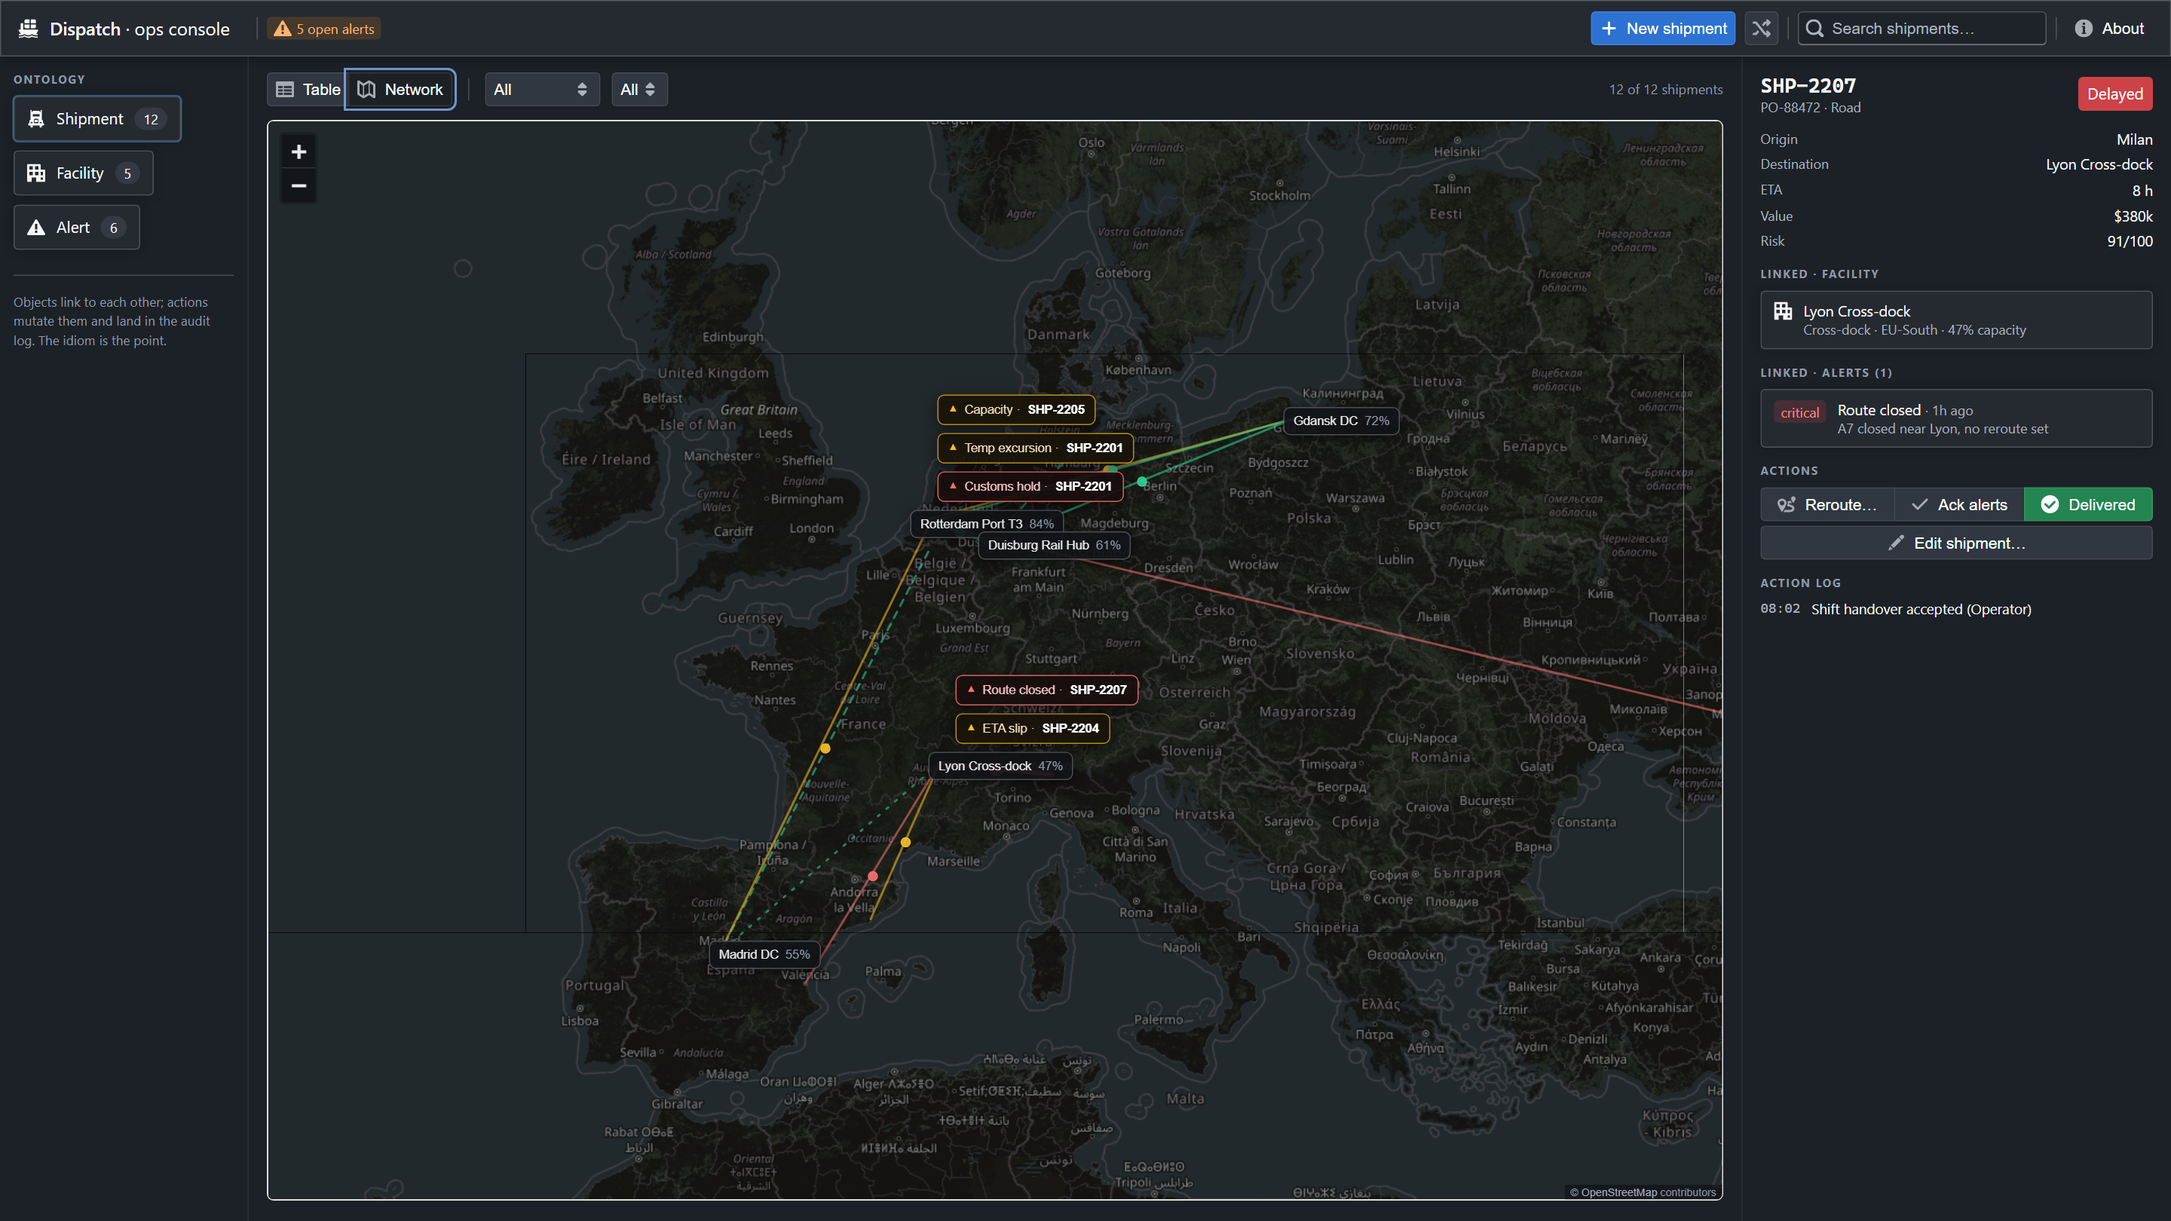
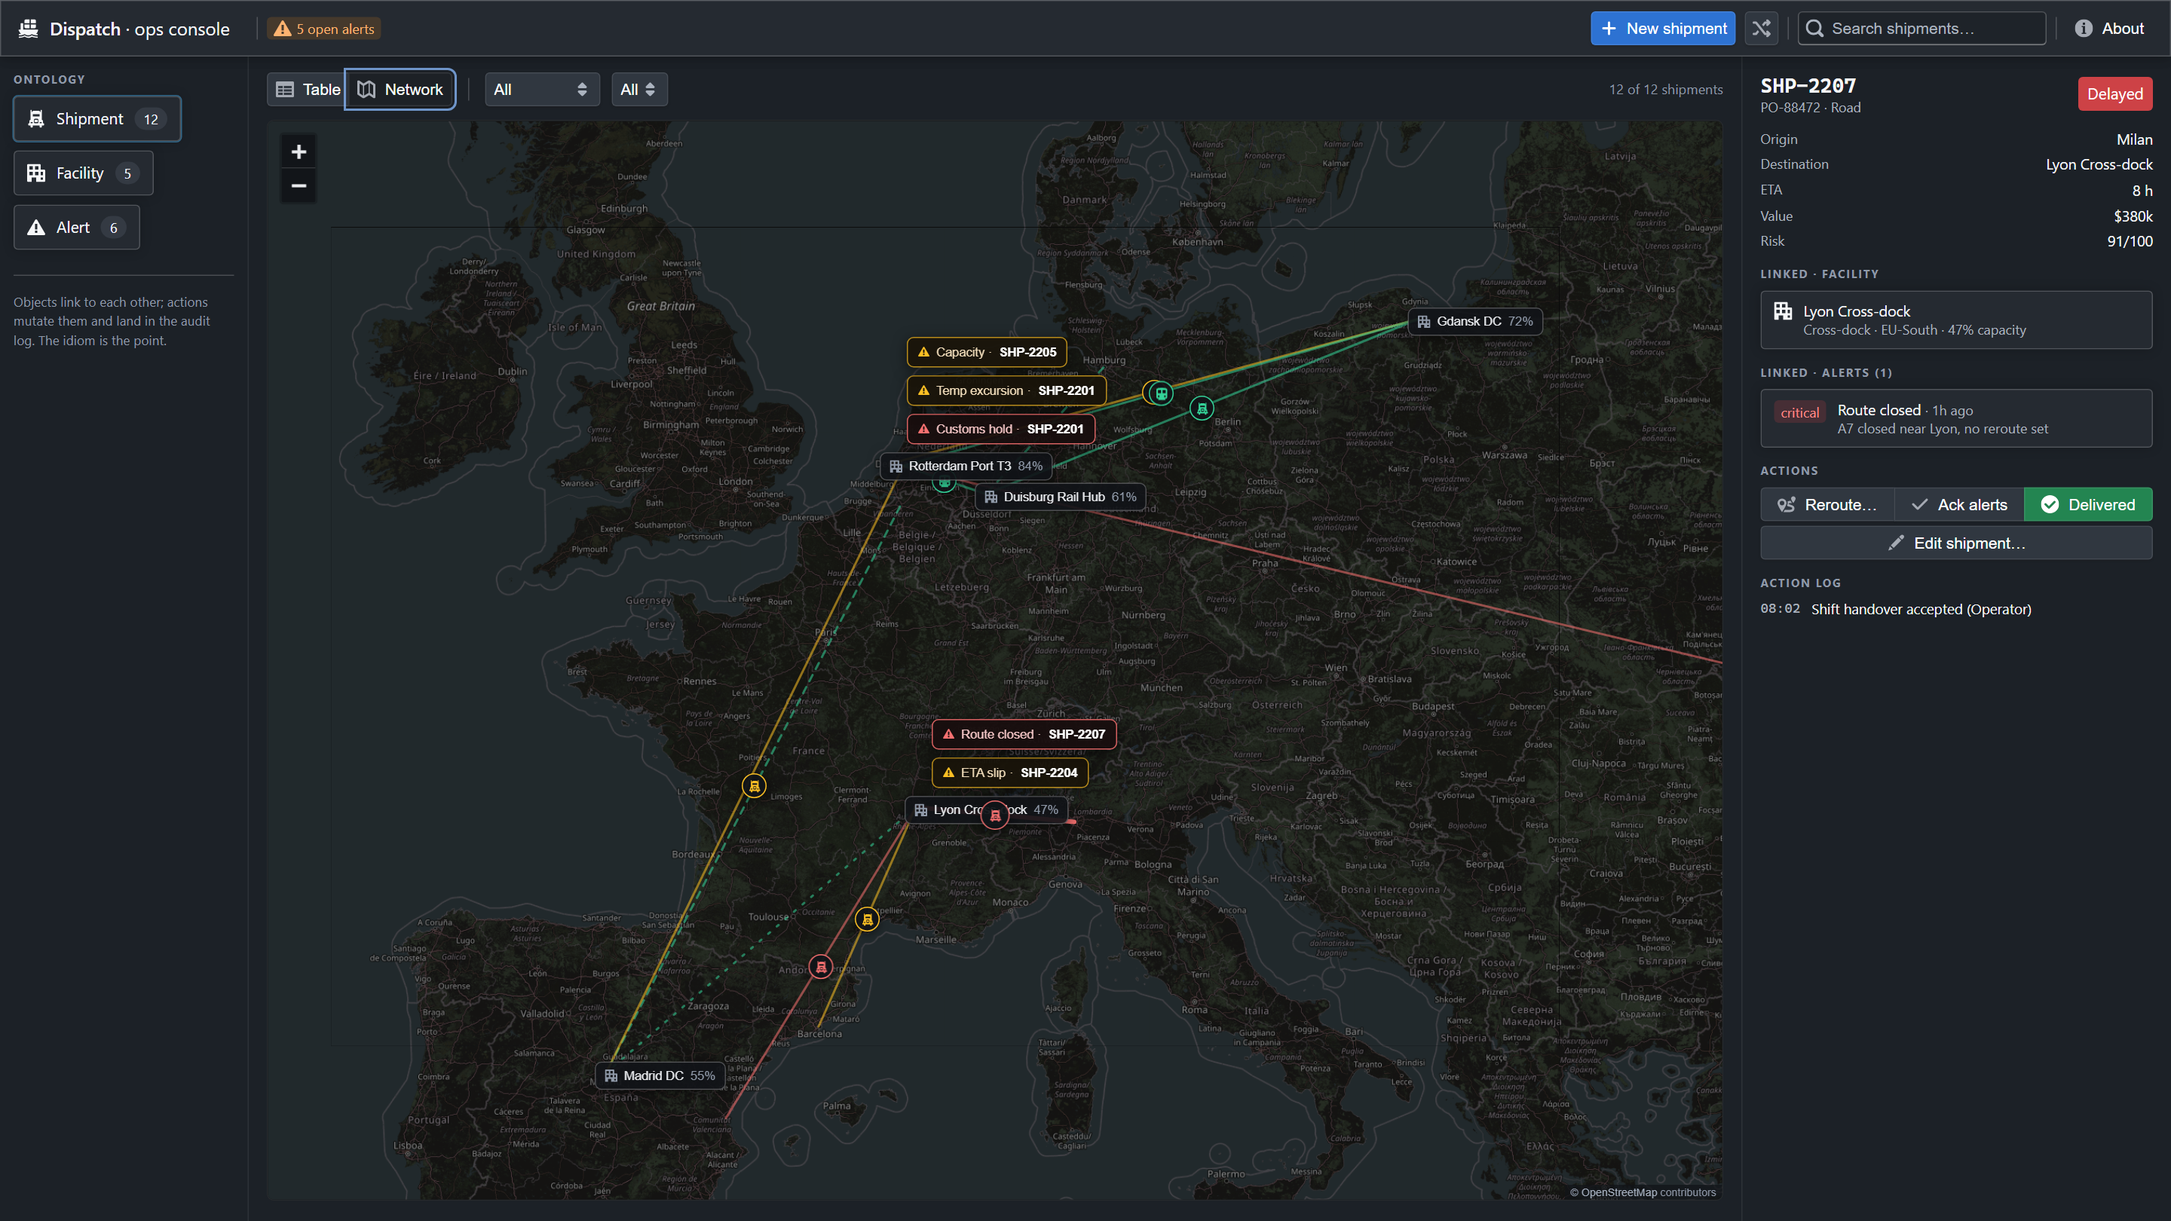
Smooth zoom, computed risk, city dropdown, Blueprint map glyphs
- Zoom no longer flashes light: dark filter moved to the tile pane
  (per-tile filters drop during zoom animation) and the container
  background override now beats leaflet.css; half-level wheel steps.
- Risk score is derived from status/priority/ETA/value/mode instead
  of being typed in; recomputed on every action, 0 once delivered.
- Origin is a dropdown over the known city list so every shipment
  can be drawn on the map (Paderborn and 5 more cities added).
- Map markers use Blueprint icon glyphs: office pins for facilities,
  truck/train/ship chips at route midpoints, warning-sign callouts.

Changed region(s): [[0.1562, 0.0926, 0.8125, 0.9877]]

diff --git a/src/App.jsx b/src/App.jsx
@@ -7,11 +7,12 @@ import {
     Navbar, Alignment, InputGroup, Button, ButtonGroup, Tag, HTMLTable, Card,
     Dialog, DialogBody, DialogFooter, HTMLSelect, ProgressBar, Icon, Tooltip,
     Divider, NonIdealState, OverlayToaster, Position, Intent,
-    FormGroup, NumericInput, Slider,
+    FormGroup, NumericInput,
 } from '@blueprintjs/core';
 import {
     OBJECT_TYPES, FACILITIES, INITIAL_ALERTS, INITIAL_SHIPMENTS,
     STATUS_INTENT, SEVERITY_INTENT,
+computeRisk, ORIGINS,
 } from './data.js';
 import MapView from './MapView.jsx';
 
@@ -25,26 +26,22 @@ async function toast(props) {
 const now = () => new Date().toLocaleTimeString('en-GB', { hour: '2-digit', minute: '2-digit' });
 
 // ---- random shipment generator (for the "Randomize" buttons) ----
-const RND_ORIGINS = ['Shanghai', 'Rotterdam', 'Hamburg', 'Antwerp', 'Valencia', 'Milan', 'Gdansk', 'Barcelona', 'Lyon', 'Duisburg', 'Istanbul', 'Oslo'];
 const RND_MODES = ['Ocean', 'Rail', 'Road'];
 const RND_STATUSES = ['In transit', 'Loading', 'Delayed', 'At customs'];
 const pick = (arr) => arr[Math.floor(Math.random() * arr.length)];
 function randomShipmentFields() {
     const status = pick(RND_STATUSES);
     return {
-        origin: pick(RND_ORIGINS),
+        origin: pick(ORIGINS),
         destId: pick(FACILITIES).id,
         mode: pick(RND_MODES),
         status,
         priority: pick(['P1', 'P2', 'P2', 'P3', 'P3']),
         etaH: 4 + Math.floor(Math.random() * 44),
         valueK: 30 + Math.floor(Math.random() * 420),
-        riskScore: status === 'Delayed' || status === 'At customs'
-            ? 45 + Math.floor(Math.random() * 50)
-            : 5 + Math.floor(Math.random() * 55),
     };
 }
-const EMPTY_FORM = { origin: '', destId: FACILITIES[0].id, mode: 'Road', status: 'Loading', priority: 'P2', etaH: 24, valueK: 100, riskScore: 20 };
+const EMPTY_FORM = { origin: 'Hamburg', destId: FACILITIES[0].id, mode: 'Road', status: 'Loading', priority: 'P2', etaH: 24, valueK: 100 };
 
 export default function App() {
     const [shipments, setShipments] = useState(INITIAL_SHIPMENTS);
@@ -83,7 +80,7 @@ export default function App() {
     // ---- ACTIONS (the Foundry idiom: named, auditable mutations) ----
     function actReroute() {
         const dest = facilityById[rerouteDest];
-        setShipments(list => list.map(s => s.id === selectedId ? { ...s, destId: rerouteDest, status: 'In transit' } : s));
+        setShipments(list => list.map(s => s.id === selectedId ? { ...s, destId: rerouteDest, status: 'In transit', riskScore: computeRisk({ ...s, status: 'In transit' }) } : s));
         setRerouteOpen(false);
         addLog(`Reroute: ${selectedId} → ${dest.name}`);
         toast({ message: `${selectedId} rerouted to ${dest.name}`, intent: Intent.SUCCESS, icon: 'route' });
@@ -94,7 +91,7 @@ export default function App() {
         toast({ message: 'Alerts acknowledged', intent: Intent.PRIMARY, icon: 'tick' });
     }
     function actDeliver() {
-        setShipments(list => list.map(s => s.id === selectedId ? { ...s, status: 'Delivered', etaH: 0 } : s));
+        setShipments(list => list.map(s => s.id === selectedId ? { ...s, status: 'Delivered', etaH: 0, riskScore: computeRisk({ ...s, status: 'Delivered', etaH: 0 }) } : s));
         addLog(`Marked delivered: ${selectedId}`);
         toast({ message: `${selectedId} marked as delivered`, intent: Intent.SUCCESS, icon: 'tick-circle' });
     }
@@ -105,14 +102,14 @@ export default function App() {
     function actCreateShipment(fields) {
         const id = nextShipmentId();
         const ref = `PO-${88500 + Math.floor(Math.random() * 400)}`;
-        setShipments(list => [{ id, ref, ...fields }, ...list]);
+        setShipments(list => [{ id, ref, ...fields, riskScore: computeRisk(fields) }, ...list]);
         setSelectedId(id);
         setForm(null);
         addLog(`Created ${id} — ${fields.origin} → ${facilityById[fields.destId]?.name}`);
         toast({ message: `${id} created`, intent: Intent.SUCCESS, icon: 'plus' });
     }
     function actEditShipment(fields) {
-        setShipments(list => list.map(s => s.id === selectedId ? { ...s, ...fields } : s));
+        setShipments(list => list.map(s => s.id === selectedId ? { ...s, ...fields, riskScore: computeRisk(fields) } : s));
         setForm(null);
         addLog(`Edited ${selectedId}`);
         toast({ message: `${selectedId} updated`, intent: Intent.PRIMARY, icon: 'edit' });
@@ -277,7 +274,7 @@ export default function App() {
                                     fields: {
                                         origin: selected.origin, destId: selected.destId, mode: selected.mode,
                                         status: selected.status, priority: selected.priority,
-                                        etaH: selected.etaH, valueK: selected.valueK, riskScore: selected.riskScore,
+                                        etaH: selected.etaH, valueK: selected.valueK,
                                     }
                                 })} />
                             </ButtonGroup>
@@ -319,9 +316,10 @@ export default function App() {
                     <>
                         <DialogBody>
                             <div className="form-grid">
-                                <FormGroup label="Origin">
-                                    <InputGroup placeholder="e.g. Hamburg" value={form.fields.origin}
-                                        onChange={e => setForm(f => ({ ...f, fields: { ...f.fields, origin: e.target.value } }))} />
+                                <FormGroup label="Origin city">
+                                    <HTMLSelect fill value={form.fields.origin}
+                                        onChange={e => setForm(f => ({ ...f, fields: { ...f.fields, origin: e.target.value } }))}
+                                        options={ORIGINS} />
                                 </FormGroup>
                                 <FormGroup label="Destination facility">
                                     <HTMLSelect fill value={form.fields.destId}
@@ -351,10 +349,10 @@ export default function App() {
                                     <NumericInput fill min={1} max={2000} value={form.fields.valueK}
                                         onValueChange={v => setForm(f => ({ ...f, fields: { ...f.fields, valueK: Number.isFinite(v) ? v : 1 } }))} />
                                 </FormGroup>
-                                <FormGroup label={`Risk score — ${form.fields.riskScore}`} className="form-span">
-                                    <Slider min={0} max={100} stepSize={1} labelStepSize={25}
-                                        value={form.fields.riskScore}
-                                        onChange={v => setForm(f => ({ ...f, fields: { ...f.fields, riskScore: v } }))} />
+                                <FormGroup label={`Risk score — ${computeRisk(form.fields)} (computed)`} className="form-span"
+                                    helperText="Derived from status, priority, ETA, value and mode — not an input.">
+                                    <ProgressBar value={computeRisk(form.fields) / 100} stripes={false} animate={false}
+                                        intent={computeRisk(form.fields) > 60 ? Intent.DANGER : computeRisk(form.fields) > 35 ? Intent.WARNING : Intent.SUCCESS} />
                                 </FormGroup>
                             </div>
                         </DialogBody>
@@ -365,7 +363,6 @@ export default function App() {
                                     <Button intent={Intent.PRIMARY}
                                         icon={form.mode === 'edit' ? 'edit' : 'plus'}
                                         text={form.mode === 'edit' ? 'Save changes' : 'Create shipment'}
-                                        disabled={!form.fields.origin.trim()}
                                         onClick={() => form.mode === 'edit'
                                             ? actEditShipment(form.fields)
                                             : actCreateShipment(form.fields)} />

diff --git a/src/MapView.jsx b/src/MapView.jsx
@@ -5,6 +5,7 @@
 import { useEffect, useRef } from 'react';
 import L from 'leaflet';
 import 'leaflet/dist/leaflet.css';
+import { IconSvgPaths16 } from '@blueprintjs/icons';
 import { FACILITIES, ORIGIN_COORDS } from './data.js';
 
 const EUROPE_BOUNDS = L.latLngBounds([39.0, -6.5], [56.5, 20.5]);
@@ -12,6 +13,15 @@ const EUROPE_BOUNDS = L.latLngBounds([39.0, -6.5], [56.5, 20.5]);
 function riskColor(score) {
     return score > 60 ? '#f87171' : score > 35 ? '#fbbf24' : '#34d399';
 }
+
+// Blueprint's own icon paths, inlined into Leaflet divIcons so map glyphs
+// match the rest of the UI exactly.
+function bpSvg(name, size = 12) {
+    const paths = IconSvgPaths16[name] || [];
+    return `<svg viewBox="0 0 16 16" width="${size}" height="${size}" fill="currentColor">` +
+        paths.map(d => `<path d="${d}" fill-rule="evenodd"/>`).join('') + '</svg>';
+}
+const MODE_ICON = { Road: 'Truck', Rail: 'Train', Ocean: 'CargoShip' };
 
 export default function MapView({ shipments, alerts, selectedId, onSelect }) {
     const hostRef = useRef(null);
@@ -24,13 +34,18 @@ export default function MapView({ shipments, alerts, selectedId, onSelect }) {
             zoomControl: true,
             attributionControl: true,
             scrollWheelZoom: true,
+            // half-level steps make wheel zoom feel smooth instead of jumpy
+            zoomSnap: 0.5,
+            zoomDelta: 0.5,
+            wheelPxPerZoomLevel: 90,
         });
         map.attributionControl.setPrefix(false);
-        // Standard OSM tiles, darkened with a CSS filter (see .map-dark-tiles in
-        // index.css) — no API key required, honest attribution kept.
+        // Standard OSM tiles, darkened with a CSS filter on the whole tile pane
+        // (per-tile filters flash unfiltered during zoom animation) — see
+        // .leaflet-tile-pane rule in index.css. No API key required.
         L.tileLayer('https://tile.openstreetmap.org/{z}/{x}/{y}.png', {
             attribution: '&copy; <a href="https://www.openstreetmap.org/copyright">OpenStreetMap</a> contributors',
-            maxZoom: 12, minZoom: 3, className: 'map-dark-tiles',
+            maxZoom: 12, minZoom: 3,
         }).addTo(map);
         map.fitBounds(EUROPE_BOUNDS, { padding: [10, 10] });
         layersRef.current = L.layerGroup().addTo(map);
@@ -62,14 +77,17 @@ export default function MapView({ shipments, alerts, selectedId, onSelect }) {
             line.bindTooltip(`${s.id} · ${s.origin} → ${dest.name} · ${s.status}`, { sticky: true, direction: 'top' });
             line.on('click', () => onSelect(s.id));
             layers.addLayer(line);
-            // moving-dot midpoint marker for in-motion shipments
+            // mode chip at the route midpoint for in-motion shipments
             if (s.status === 'In transit' || s.status === 'Delayed') {
                 const mid = [(from[0] + dest.lat) / 2, (from[1] + dest.lng) / 2];
-                const dot = L.circleMarker(mid, {
-                    radius: isSel ? 6 : 4, color: riskColor(s.riskScore),
-                    fillColor: riskColor(s.riskScore), fillOpacity: 0.9, weight: 1,
+                const c = riskColor(s.riskScore);
+                const chip = L.divIcon({
+                    className: '',
+                    html: `<div class="map-chip${isSel ? ' map-chip--sel' : ''}" style="border-color:${c};color:${c}">${bpSvg(MODE_ICON[s.mode] || 'Truck', 11)}</div>`,
+                    iconSize: [22, 22], iconAnchor: [11, 11],
                 });
-                dot.bindTooltip(`${s.id} · ETA ${s.etaH}h`, { direction: 'top' });
+                const dot = L.marker(mid, { icon: chip, zIndexOffset: isSel ? 800 : 300 });
+                dot.bindTooltip(`${s.id} · ${s.mode} · ETA ${s.etaH}h`, { direction: 'top' });
                 dot.on('click', () => onSelect(s.id));
                 layers.addLayer(dot);
             }
@@ -79,7 +97,7 @@ export default function MapView({ shipments, alerts, selectedId, onSelect }) {
         FACILITIES.forEach(f => {
             const icon = L.divIcon({
                 className: '',
-                html: `<div class="map-fac"><span class="map-fac__name">${f.name}</span><span class="map-fac__cap">${f.capacityPct}%</span></div>`,
+                html: `<div class="map-fac">${bpSvg('Office', 11)}<span class="map-fac__name">${f.name}</span><span class="map-fac__cap">${f.capacityPct}%</span></div>`,
                 iconSize: null, iconAnchor: [10, 10],
             });
             const m = L.marker([f.lat, f.lng], { icon, zIndexOffset: 500 });
@@ -98,7 +116,7 @@ export default function MapView({ shipments, alerts, selectedId, onSelect }) {
             const icon = L.divIcon({
                 className: '',
                 html: `<div class="map-callout map-callout--${a.severity}">
-                         <span class="map-callout__pin">▲</span> ${a.kind} · <b>${s.id}</b>
+                         <span class="map-callout__pin">${bpSvg('WarningSign', 10)}</span> ${a.kind} · <b>${s.id}</b>
                        </div>`,
                 iconSize: null, iconAnchor: [-14, 44 + (n - 1) * 34],
             });

diff --git a/src/data.js b/src/data.js
@@ -17,12 +17,17 @@ export const FACILITIES = [
 ];
 
 // Origin cities for map routes (shipments start here, end at a facility).
+// Origins are picked from this list — free text would leave routes that
+// can't be drawn on the map.
 export const ORIGIN_COORDS = {
     Shanghai: [31.23, 121.47], Rotterdam: [51.92, 4.48], Hamburg: [53.55, 9.99],
     Antwerp: [51.22, 4.40], Valencia: [39.47, -0.38], Milan: [45.46, 9.19],
     Gdansk: [54.35, 18.65], Barcelona: [41.39, 2.17], Lyon: [45.76, 4.84],
     Duisburg: [51.43, 6.76], Istanbul: [41.01, 28.98], Oslo: [59.91, 10.75],
+    Paderborn: [51.72, 8.75], Vienna: [48.21, 16.37], Warsaw: [52.23, 21.01],
+    Marseille: [43.30, 5.37], Prague: [50.08, 14.44], Copenhagen: [55.68, 12.57],
 };
+export const ORIGINS = Object.keys(ORIGIN_COORDS).sort();
 
 export const INITIAL_ALERTS = [
     { id: 'AL-101', shipmentId: 'SHP-2201', severity: 'critical', kind: 'Customs hold', detail: 'Missing HS code on 2 pallets', ageH: 6, acked: false },
@@ -47,6 +52,19 @@ export const INITIAL_SHIPMENTS = [
     { id: 'SHP-2211', ref: 'PO-88491', origin: 'Barcelona', destId: 'FAC-03', mode: 'Road', status: 'In transit', priority: 'P2', etaH: 12, valueK: 205, riskScore: 41 },
     { id: 'SHP-2212', ref: 'PO-88495', origin: 'Rotterdam', destId: 'FAC-05', mode: 'Road', status: 'In transit', priority: 'P1', etaH: 16, valueK: 310, riskScore: 49 },
 ];
+
+// Risk is a derived property, not an input — recomputed whenever a
+// shipment is created, edited or mutated by an action.
+export function computeRisk({ status, priority, etaH, valueK, mode }) {
+    if (status === 'Delivered') return 0;             // nothing left at risk
+    const base = { 'Delayed': 45, 'At customs': 40, 'In transit': 15, 'Loading': 10 }[status] ?? 15;
+    let score = base;
+    score += { P1: 20, P2: 10, P3: 0 }[priority] ?? 0;
+    score += Math.min(20, Math.round(valueK / 20));   // value at stake
+    if (status !== 'Delivered' && etaH < 12) score += 10; // tight window
+    if (mode === 'Ocean') score += 5;                 // longer, less recoverable
+    return Math.max(0, Math.min(100, score));
+}
 
 export const STATUS_INTENT = {
     'At customs': 'warning',

diff --git a/src/index.css b/src/index.css
@@ -67,12 +67,25 @@ body { font-family: -apple-system, BlinkMacSystemFont, 'Segoe UI', sans-serif; }
 .map-callout__pin { font-size: 8px; }
 .map-callout--critical .map-callout__pin { color: #f87171; }
 .map-callout--warning .map-callout__pin { color: #fbbf24; }
-.leaflet-container { background: #0f1216; font: inherit; }
+/* !important: leaflet.css loads after this file and its #ddd default
+   flashes light around tiles during zoom-out otherwise */
+.leaflet-container { background: #0f1216 !important; font: inherit; }
 .leaflet-tooltip { background: rgba(17,20,24,0.95); color: #e8eaed; border: 1px solid rgba(255,255,255,0.2);
     box-shadow: 0 3px 10px rgba(0,0,0,0.5); font-size: 11.5px; }
 .leaflet-tooltip-top:before, .leaflet-tooltip-bottom:before { border-top-color: rgba(255,255,255,0.2); }
 .leaflet-control-attribution { background: rgba(17,20,24,0.75) !important; color: #8f99a8 !important; font-size: 9.5px !important; }
 .leaflet-control-attribution a { color: #a8b2c1 !important; }
 .leaflet-bar a { background: rgba(17,20,24,0.92) !important; color: #e8eaed !important; border-color: rgba(255,255,255,0.15) !important; }
-/* dark-mode trick for keyless OSM tiles: invert + rotate hue back */
-.map-dark-tiles { filter: invert(1) hue-rotate(180deg) brightness(0.62) contrast(0.92) saturate(0.35); }
+/* dark-mode trick for keyless OSM tiles: invert + rotate hue back.
+   Applied to the tile PANE, not per-tile — per-tile filters drop out
+   (flash light) while Leaflet animates zoom transforms. */
+.leaflet-tile-pane { filter: invert(1) hue-rotate(180deg) brightness(0.62) contrast(0.92) saturate(0.35); }
+
+/* map glyphs (Blueprint icon paths inlined into divIcons) */
+.map-chip { display: flex; align-items: center; justify-content: center; width: 22px; height: 22px;
+    border-radius: 50%; background: rgba(17,20,24,0.95); border: 1.5px solid;
+    box-shadow: 0 2px 8px rgba(0,0,0,0.5); }
+.map-chip--sel { width: 26px; height: 26px; margin: -2px; }
+.map-chip svg, .map-callout__pin svg, .map-fac svg { display: block; }
+.map-fac svg { color: #8f99a8; flex: none; }
+.map-callout__pin { display: flex; }
